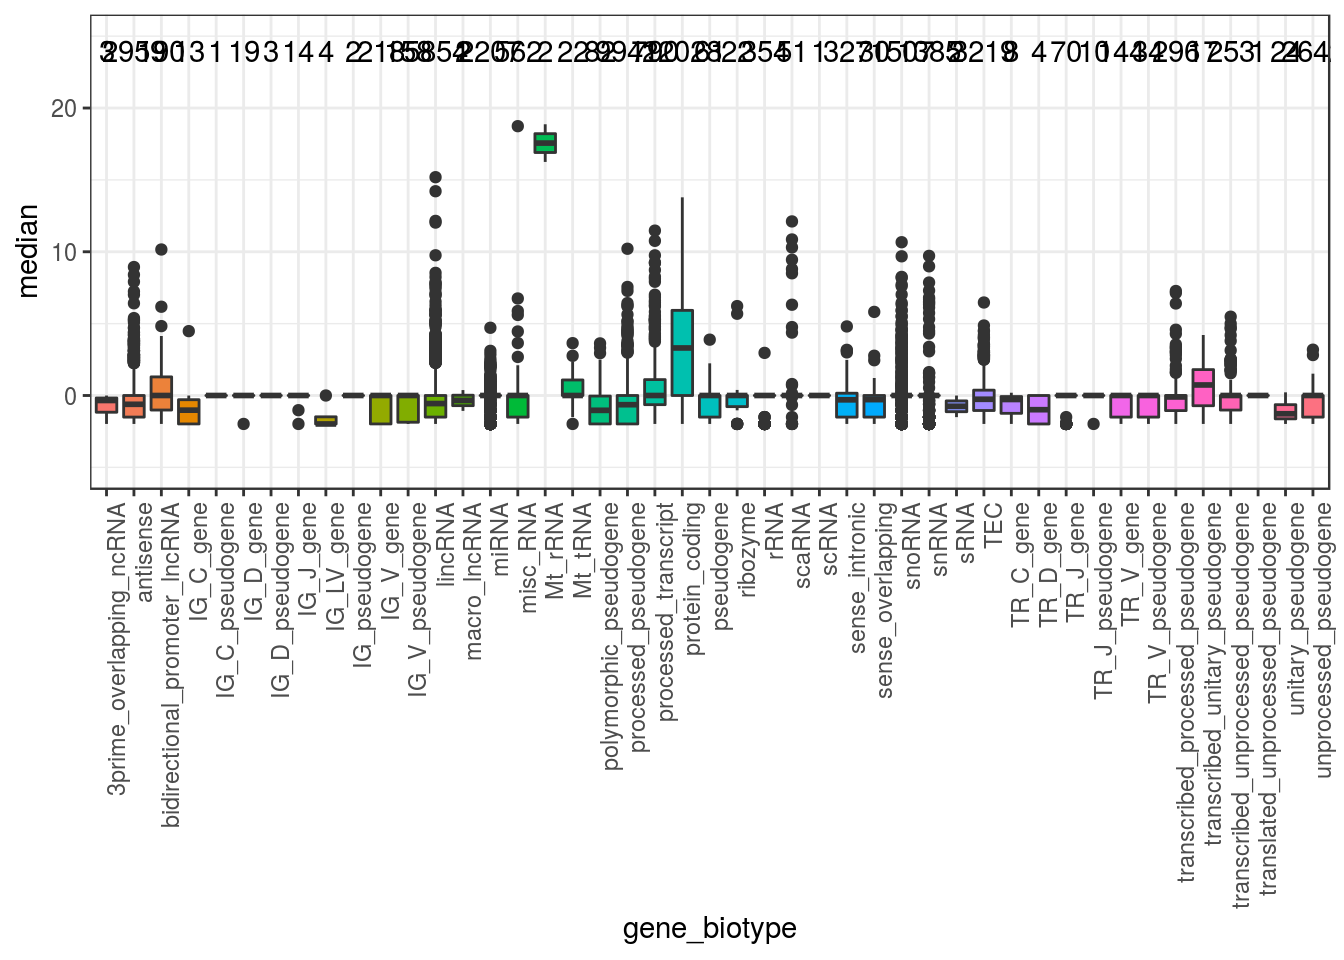
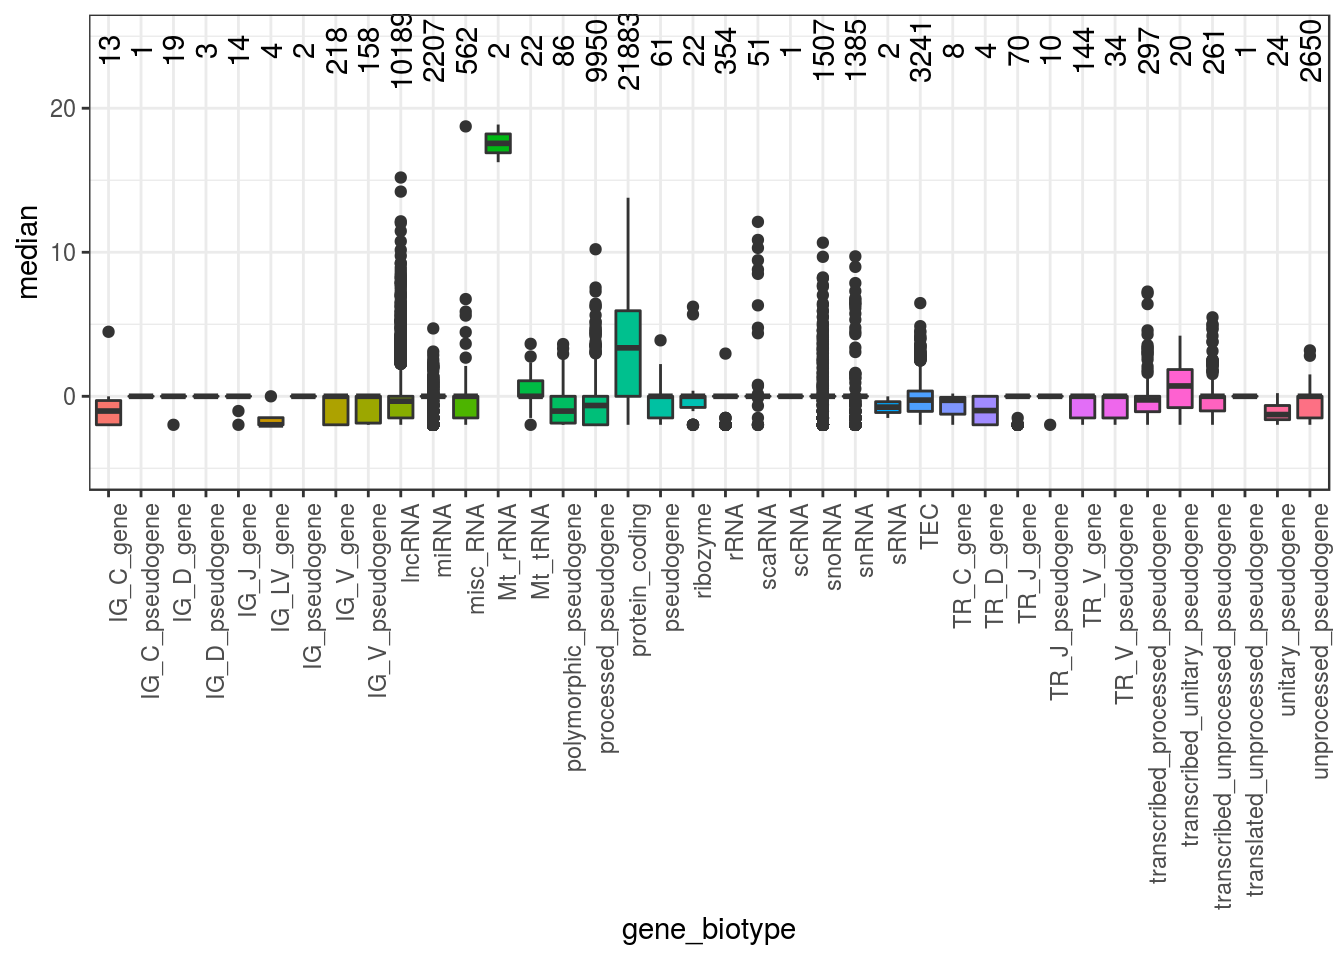
ECCB 2019

diff --git a/read-count-analysis.html b/read-count-analysis.html
@@ -25,7 +25,7 @@
 <meta name="author" content="Rishi Das Roy, Postdoctoral Fellow, Evo-Devo lab, University of Helsinki">
 
 
-<meta name="date" content="2019-05-23">
+<meta name="date" content="2019-07-23">
 
   <meta name="viewport" content="width=device-width, initial-scale=1">
   <meta name="apple-mobile-web-app-capable" content="yes">
@@ -219,7 +219,6 @@ sampleMetaData &lt;-<span class="st"> </span><span class="kw">read.csv</span>(<s
 <p>It is of course possible to manually read the text files into R, remove the lines not corresponding to genes and merging the count vectors for all the samples into one count matrix. However, the <code>DESeq2</code> package contains a function for constructing a DESeqDataSet directly from the output of <code>htseq-count</code>, and we will illustrate the use of it here (a more thorough description of the DESeqDataSet class is given below, for now it is enough to know that it is an example of a class where one can store all the information associated with an RNA-seq experiment). We need to provide the function with a sample table, where the <strong>first column</strong> is the sample name and the <strong>second</strong> is the name of the corresponding output file from htseq-count. Additional columns can be specified as well, and will be stored in the DESeqDataSet object.</p>
 <p>In this example we have already made the sample table <strong>sampleMetaData</strong>.</p>
 <div class="sourceCode"><pre class="sourceCode r"><code class="sourceCode r"><span class="kw">suppressPackageStartupMessages</span>(<span class="kw">require</span>(DESeq2))
-
 ddsHTSeq &lt;-<span class="st"> </span><span class="kw">DESeqDataSetFromHTSeqCount</span>(<span class="dt">sampleTable =</span> sampleMetaData, 
                                         <span class="dt">directory =</span> <span class="st">&quot;readCount/&quot;</span>,
                                        <span class="dt">design=</span> <span class="op">~</span><span class="st"> </span>pair<span class="op">+</span>condition)
@@ -242,35 +241,16 @@ ddsHTSeq</code></pre></div>
 rlogMat&lt;-<span class="kw">as.data.frame</span>(<span class="kw">assay</span>(<span class="kw">rlog</span>(ddsHTSeq)))
 rlogMat<span class="op">$</span>median &lt;-<span class="st"> </span><span class="kw">apply</span>(rlogMat,<span class="dv">1</span>,median)
 
-
 <span class="cf">if</span> (<span class="op">!</span><span class="kw">requireNamespace</span>(<span class="st">&quot;xml2&quot;</span>, <span class="dt">quietly =</span> <span class="ot">TRUE</span>)) {
     <span class="kw">install.packages</span>(<span class="st">&quot;xml2&quot;</span>,<span class="dt">repos =</span> <span class="st">&quot;http://cran.us.r-project.org&quot;</span>)
 }
 <span class="kw">suppressPackageStartupMessages</span>(<span class="kw">require</span>(xml2))
-
 <span class="cf">if</span> (<span class="op">!</span><span class="kw">requireNamespace</span>(<span class="st">&quot;biomaRt&quot;</span>, <span class="dt">quietly =</span> <span class="ot">TRUE</span>)) {
     BiocManager<span class="op">::</span><span class="kw">install</span>(<span class="st">&quot;biomaRt&quot;</span>)
-}</code></pre></div>
-<pre><code>## Bioconductor version 3.8 (BiocManager 1.30.4), R 3.5.0 (2018-04-23)</code></pre>
-<pre><code>## Installing package(s) &#39;biomaRt&#39;</code></pre>
-<pre><code>## also installing the dependencies &#39;hms&#39;, &#39;progress&#39;</code></pre>
-<pre><code>## Updating HTML index of packages in &#39;.Library&#39;</code></pre>
-<pre><code>## Making &#39;packages.html&#39; ... done
-## Update old packages: &#39;AnnotationDbi&#39;, &#39;assertthat&#39;, &#39;backports&#39;, &#39;BH&#39;,
-##   &#39;Biobase&#39;, &#39;BiocInstaller&#39;, &#39;bookdown&#39;, &#39;boot&#39;, &#39;Cairo&#39;, &#39;callr&#39;,
-##   &#39;caTools&#39;, &#39;class&#39;, &#39;cli&#39;, &#39;clipr&#39;, &#39;cluster&#39;, &#39;codetools&#39;,
-##   &#39;colorspace&#39;, &#39;commonmark&#39;, &#39;curl&#39;, &#39;data.table&#39;, &#39;devtools&#39;, &#39;digest&#39;,
-##   &#39;dplyr&#39;, &#39;evaluate&#39;, &#39;fansi&#39;, &#39;foreign&#39;, &#39;formatR&#39;, &#39;ggplot2&#39;, &#39;git2r&#39;,
-##   &#39;glue&#39;, &#39;GO.db&#39;, &#39;gtable&#39;, &#39;hexbin&#39;, &#39;highr&#39;, &#39;htmlwidgets&#39;, &#39;httpuv&#39;,
-##   &#39;httr&#39;, &#39;igraph&#39;, &#39;ini&#39;, &#39;irlba&#39;, &#39;jsonlite&#39;, &#39;knitr&#39;, &#39;later&#39;,
-##   &#39;lattice&#39;, &#39;lazyeval&#39;, &#39;markdown&#39;, &#39;MASS&#39;, &#39;Matrix&#39;, &#39;mgcv&#39;, &#39;mime&#39;,
-##   &#39;nlme&#39;, &#39;openssl&#39;, &#39;org.Hs.eg.db&#39;, &#39;org.Mm.eg.db&#39;, &#39;pcaMethods&#39;,
-##   &#39;pillar&#39;, &#39;pkgbuild&#39;, &#39;pkgload&#39;, &#39;plotly&#39;, &#39;purrr&#39;, &#39;R6&#39;, &#39;rcmdcheck&#39;,
-##   &#39;Rcpp&#39;, &#39;RcppArmadillo&#39;, &#39;rlang&#39;, &#39;rmarkdown&#39;, &#39;roxygen2&#39;, &#39;rpart&#39;,
-##   &#39;rstudioapi&#39;, &#39;Rtsne&#39;, &#39;sessioninfo&#39;, &#39;shiny&#39;, &#39;stringi&#39;, &#39;stringr&#39;,
-##   &#39;styler&#39;, &#39;survival&#39;, &#39;testthat&#39;, &#39;tibble&#39;, &#39;tidyr&#39;, &#39;tidyselect&#39;,
-##   &#39;tinytex&#39;, &#39;urltools&#39;, &#39;usethis&#39;, &#39;vioplot&#39;, &#39;xfun&#39;, &#39;xtable&#39;, &#39;yaml&#39;</code></pre>
-<div class="sourceCode"><pre class="sourceCode r"><code class="sourceCode r">### Use biomart to download gene information from Ensembl
+}
+  
+
+### Use biomart to download gene information from Ensembl
 <span class="kw">suppressPackageStartupMessages</span>(<span class="kw">require</span>(biomaRt))
 ensMart&lt;-<span class="kw">useMart</span>(<span class="st">&quot;ensembl&quot;</span> )
 
@@ -285,7 +265,6 @@ ensembl_ms_mart &lt;-<span class="st"> </span><span class="kw">useMart</span>(<s
 ## grep(&quot;GC&quot;,listAttributes(ensembl_ms_mart)$description,ignore.case = TRUE)
 ## listAttributes(ensembl_ms_mart)[26,]
 
-
 gene_attributes&lt;-<span class="st"> </span><span class="kw">c</span>(<span class="st">&quot;ensembl_gene_id&quot;</span>,  <span class="st">&quot;external_gene_name&quot;</span>, 
                     <span class="st">&quot;gene_biotype&quot;</span>, <span class="st">&quot;percentage_gene_gc_content&quot;</span>)
 <span class="kw">suppressMessages</span>(
@@ -294,7 +273,6 @@ gene_attributes&lt;-<span class="st"> </span><span class="kw">c</span>(<span cla
                                ensembl_ms_mart, <span class="dt">filters =</span> <span class="st">&quot;ensembl_gene_id&quot;</span>) )
 
 rlogMat<span class="op">$</span>ensembl_gene_id &lt;-<span class="st"> </span><span class="kw">rownames</span>(rlogMat)
-
 rlogMat_biotype_gc &lt;-<span class="st"> </span><span class="kw">merge</span>(rlogMat,gene_attribute_data,<span class="dt">by=</span><span class="st">&quot;ensembl_gene_id&quot;</span>)
 
 <span class="kw">head</span>(rlogMat_biotype_gc)</code></pre></div>
@@ -309,7 +287,7 @@ rlogMat_biotype_gc &lt;-<span class="st"> </span><span class="kw">merge</span>(r
 ## 1  8.8102354  8.9003907              Gnai3 protein_coding
 ## 2 -1.9793396 -1.9785894               Pbsn protein_coding
 ## 3  6.4071199  6.5795753              Cdc45 protein_coding
-## 4 15.3122752 15.1894439                H19        lincRNA
+## 4 15.3122752 15.1894439                H19         lncRNA
 ## 5  5.1540966  5.3816975              Scml2 protein_coding
 ## 6  0.1939248  0.1975719               Apoh protein_coding
 ##   percentage_gene_gc_content
@@ -317,14 +295,14 @@ rlogMat_biotype_gc &lt;-<span class="st"> </span><span class="kw">merge</span>(r
 ## 2                      38.23
 ## 3                      46.23
 ## 4                      55.83
-## 5                      37.89
+## 5                      39.03
 ## 6                      43.83</code></pre>
 <div id="gene-biotype" class="section level4">
 <h4><span class="header-section-number">3.1.0.1</span> Gene Biotype</h4>
 <p>Plot median expression of different gene biotype. Are there any highly expressed rRNA ?</p>
 <div class="sourceCode"><pre class="sourceCode r"><code class="sourceCode r"><span class="kw">suppressPackageStartupMessages</span>(<span class="kw">require</span>(ggplot2))
 give.n &lt;-<span class="st"> </span><span class="cf">function</span>(x){
-  <span class="kw">return</span>(<span class="kw">c</span>(<span class="dt">y =</span> <span class="dv">24</span>, <span class="dt">label =</span> <span class="kw">length</span>(x)))
+  <span class="kw">return</span>(<span class="kw">c</span>(<span class="dt">y =</span> <span class="dv">24</span>, <span class="dt">label =</span> <span class="kw">length</span>(x),<span class="dt">angle=</span><span class="dv">90</span>))
 }
 
 <span class="kw">ggplot</span>(rlogMat_biotype_gc,<span class="kw">aes</span>(<span class="dt">y=</span>median,<span class="dt">x=</span>gene_biotype))<span class="op">+</span>
@@ -338,15 +316,15 @@ give.n &lt;-<span class="st"> </span><span class="cf">function</span>(x){
                     <span class="kw">c</span>(<span class="st">&quot;external_gene_name&quot;</span>, <span class="st">&quot;gene_biotype&quot;</span> ,
                     <span class="st">&quot;median&quot;</span>,<span class="st">&quot;percentage_gene_gc_content&quot;</span>,<span class="st">&quot;ensembl_gene_id&quot;</span>)]</code></pre></div>
 <pre><code>##       external_gene_name gene_biotype   median percentage_gene_gc_content
-## 4                    H19      lincRNA 15.18944                      55.83
-## 17918            mt-Rnr1      Mt_rRNA 16.25223                      35.81
-## 17920            mt-Rnr2      Mt_rRNA 18.87056                      35.40
-## 18329              Rn7sk     misc_RNA 18.73874                      58.01
+## 4                    H19       lncRNA 15.18944                      55.83
+## 17914            mt-Rnr1      Mt_rRNA 16.25223                      35.81
+## 17916            mt-Rnr2      Mt_rRNA 18.87056                      35.40
+## 18325              Rn7sk     misc_RNA 18.73874                      58.01
 ##          ensembl_gene_id
 ## 4     ENSMUSG00000000031
-## 17918 ENSMUSG00000064337
-## 17920 ENSMUSG00000064339
-## 18329 ENSMUSG00000065037</code></pre>
+## 17914 ENSMUSG00000064337
+## 17916 ENSMUSG00000064339
+## 18325 ENSMUSG00000065037</code></pre>
 <p>There are Mitochondrial ribosomal RNA (Mt_rRNA) which are higly expressed but they are not gc rich.</p>
 </div>
 <div id="expression" class="section level3">
@@ -360,32 +338,30 @@ countData<span class="op">$</span>ensembl_gene_id &lt;-<span class="st"> </span>
 
 countData_biotype &lt;-<span class="st"> </span><span class="kw">merge</span>(countData,gene_attribute_data,<span class="dt">by=</span><span class="st">&quot;ensembl_gene_id&quot;</span>)
 
-
 <span class="kw">ggplot</span>(countData_biotype, <span class="kw">aes</span>(<span class="dt">x=</span>percentage_gene_gc_content,<span class="dt">y=</span>median))<span class="op">+</span>
 <span class="st">  </span><span class="kw">geom_point</span>()<span class="op">+</span><span class="kw">xlim</span>(<span class="dv">25</span>,<span class="dv">75</span>)</code></pre></div>
-<pre><code>## Warning: Removed 80 rows containing missing values (geom_point).</code></pre>
 <p><img src="_main_files/figure-html/unnamed-chunk-25-1.png" width="672" /></p>
 <div class="sourceCode"><pre class="sourceCode r"><code class="sourceCode r">countData_biotype[ countData_biotype<span class="op">$</span>median<span class="op">&gt;</span><span class="dv">10000</span>,
                    <span class="kw">c</span>(<span class="st">&quot;external_gene_name&quot;</span>, <span class="st">&quot;gene_biotype&quot;</span>,
                      <span class="st">&quot;median&quot;</span>,<span class="st">&quot;percentage_gene_gc_content&quot;</span>,<span class="st">&quot;ensembl_gene_id&quot;</span>)]</code></pre></div>
 <pre><code>##       external_gene_name   gene_biotype   median
-## 4                    H19        lincRNA  36479.0
+## 4                    H19         lncRNA  36479.0
 ## 7388                Actb protein_coding  13993.5
-## 10830             Eef1a1 protein_coding  11296.0
-## 17918            mt-Rnr1        Mt_rRNA  74793.0
-## 17920            mt-Rnr2        Mt_rRNA 484446.0
-## 18329              Rn7sk       misc_RNA 427119.0
-## 21035            Gm10800 protein_coding  10444.5
-## 36463            Gm26917        lincRNA  18214.0
+## 10829             Eef1a1 protein_coding  11296.0
+## 17914            mt-Rnr1        Mt_rRNA  74793.0
+## 17916            mt-Rnr2        Mt_rRNA 484446.0
+## 18325              Rn7sk       misc_RNA 427119.0
+## 21027            Gm10800 protein_coding  10444.5
+## 36413            Gm26917         lncRNA  18214.0
 ##       percentage_gene_gc_content    ensembl_gene_id
 ## 4                          55.83 ENSMUSG00000000031
 ## 7388                       54.56 ENSMUSG00000029580
-## 10830                      46.87 ENSMUSG00000037742
-## 17918                      35.81 ENSMUSG00000064337
-## 17920                      35.40 ENSMUSG00000064339
-## 18329                      58.01 ENSMUSG00000065037
-## 21035                      35.63 ENSMUSG00000075014
-## 36463                      69.12 ENSMUSG00000097971</code></pre>
+## 10829                      46.87 ENSMUSG00000037742
+## 17914                      35.81 ENSMUSG00000064337
+## 17916                      35.40 ENSMUSG00000064339
+## 18325                      58.01 ENSMUSG00000065037
+## 21027                      35.63 ENSMUSG00000075014
+## 36413                      69.12 ENSMUSG00000097971</code></pre>
 <p>There are two genes which have expressed a lot with with compared to other genes.</p>
 </div>
 </div>
@@ -427,7 +403,6 @@ sampleDists</code></pre></div>
   <span class="kw">install.packages</span>(<span class="st">&quot;pheatmap&quot;</span>,<span class="dt">repos =</span> <span class="st">&quot;http://cran.us.r-project.org&quot;</span>)
 }
 <span class="kw">suppressPackageStartupMessages</span>(<span class="kw">library</span>(<span class="st">&quot;pheatmap&quot;</span>))
-
 
 sampleDistMatrix &lt;-<span class="st"> </span><span class="kw">as.matrix</span>(sampleDists)
 <span class="kw">rownames</span>(sampleDistMatrix) &lt;-<span class="st"> </span>rld<span class="op">$</span>condition

diff --git a/index.html b/index.html
@@ -25,7 +25,7 @@
 <meta name="author" content="Rishi Das Roy, Postdoctoral Fellow, Evo-Devo lab, University of Helsinki">
 
 
-<meta name="date" content="2019-05-23">
+<meta name="date" content="2019-07-23">
 
   <meta name="viewport" content="width=device-width, initial-scale=1">
   <meta name="apple-mobile-web-app-capable" content="yes">
@@ -184,7 +184,7 @@ code > span.in { color: #60a0b0; font-weight: bold; font-style: italic; } /* Inf
 <div id="header">
 <h1 class="title">Pipeline:4-RNA-seq and a minimal RNA-seq cook book</h1>
 <p class="author"><em>Rishi Das Roy, Postdoctoral Fellow, Evo-Devo lab, University of Helsinki</em></p>
-<p class="date"><em>2019-05-23</em></p>
+<p class="date"><em>2019-07-23</em></p>
 </div>
 <div id="preface" class="section level1 unnumbered">
 <h1>Preface</h1>

diff --git a/alignment-and-count.html b/alignment-and-count.html
@@ -25,7 +25,7 @@
 <meta name="author" content="Rishi Das Roy, Postdoctoral Fellow, Evo-Devo lab, University of Helsinki">
 
 
-<meta name="date" content="2019-05-23">
+<meta name="date" content="2019-07-23">
 
   <meta name="viewport" content="width=device-width, initial-scale=1">
   <meta name="apple-mobile-web-app-capable" content="yes">

diff --git a/pipeline-4-rna-seq.html b/pipeline-4-rna-seq.html
@@ -25,7 +25,7 @@
 <meta name="author" content="Rishi Das Roy, Postdoctoral Fellow, Evo-Devo lab, University of Helsinki">
 
 
-<meta name="date" content="2019-05-23">
+<meta name="date" content="2019-07-23">
 
   <meta name="viewport" content="width=device-width, initial-scale=1">
   <meta name="apple-mobile-web-app-capable" content="yes">

diff --git a/quality-control.html b/quality-control.html
@@ -25,7 +25,7 @@
 <meta name="author" content="Rishi Das Roy, Postdoctoral Fellow, Evo-Devo lab, University of Helsinki">
 
 
-<meta name="date" content="2019-05-23">
+<meta name="date" content="2019-07-23">
 
   <meta name="viewport" content="width=device-width, initial-scale=1">
   <meta name="apple-mobile-web-app-capable" content="yes">
